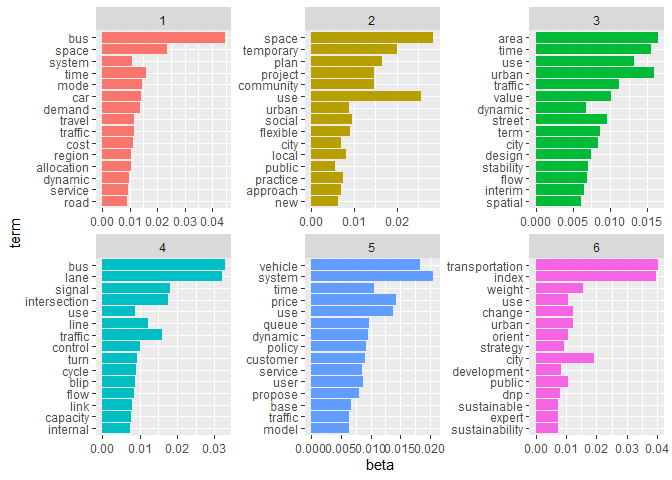
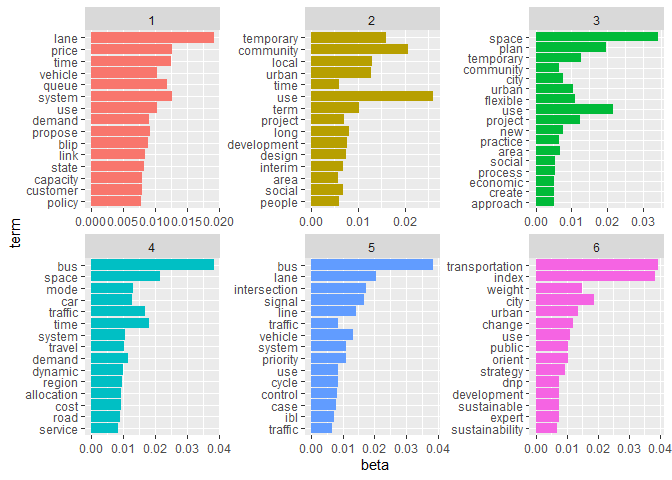
LDA

diff --git a/LDA_Bigrams_Full_Papers.md b/LDA_Bigrams_Full_Papers.md
@@ -39,6 +39,29 @@ docs <- lapply(x, FUN = paste, collapse = " ")
 
 #### Data cleaning
 
+``` r
+#Remove punctuation
+text <- gsub(pattern = "\\W", replace = " ", docs)
+#Remove Numbers (digits)
+text2 <- gsub(pattern = "\\d", replace = " ", text)
+#Lowercase words
+text3 <- tolower(text2)
+#remove single words 
+text4 <- gsub(pattern = "\\b[A-z]\\b{1}", replace = " ", text3) 
+#Remove whitespace
+text5 <- stripWhitespace(text4)
+#Lematize terms in its dictionary form
+text6 <- lemmatize_strings(text5, dictionary = lexicon::hash_lemmas)
+
+adicional_stopwords <- c("good","represent", "present", "different","london", "may","datum","taipei", "numb", "much", "one", "two", "can", "fig", "will", "arm", "along", "xpj", "figure", "thus","aviv", "tel", "dsc","dscs","traf","also","study", stopwords("en"))
+#remove stopwords
+text7 <- removeWords(text6, adicional_stopwords)
+
+# Remove words for bigrams
+new_stopwords <- c("ow", "exible", "cantly","wick", "exibility", "uence", "uences", "ned")
+text_bigram <- removeWords(text7, new_stopwords)
+```
+
 #### Create corpus
 
 ``` r
@@ -125,7 +148,7 @@ ggplot(
   labs(x = "term")
 ```
 
-![](LDA_Bigrams_Full_Papers_files/figure-gfm/unnamed-chunk-9-1.png)<!-- -->
+![](LDA_Bigrams_Full_Papers_files/figure-gfm/unnamed-chunk-10-1.png)<!-- -->
 \>Note: If you run the algorithm many times, the topics will maintain
 the same. Nonetheless, the order of the topics may appear differently
 which is coherent to the “bag of words” assumption.
